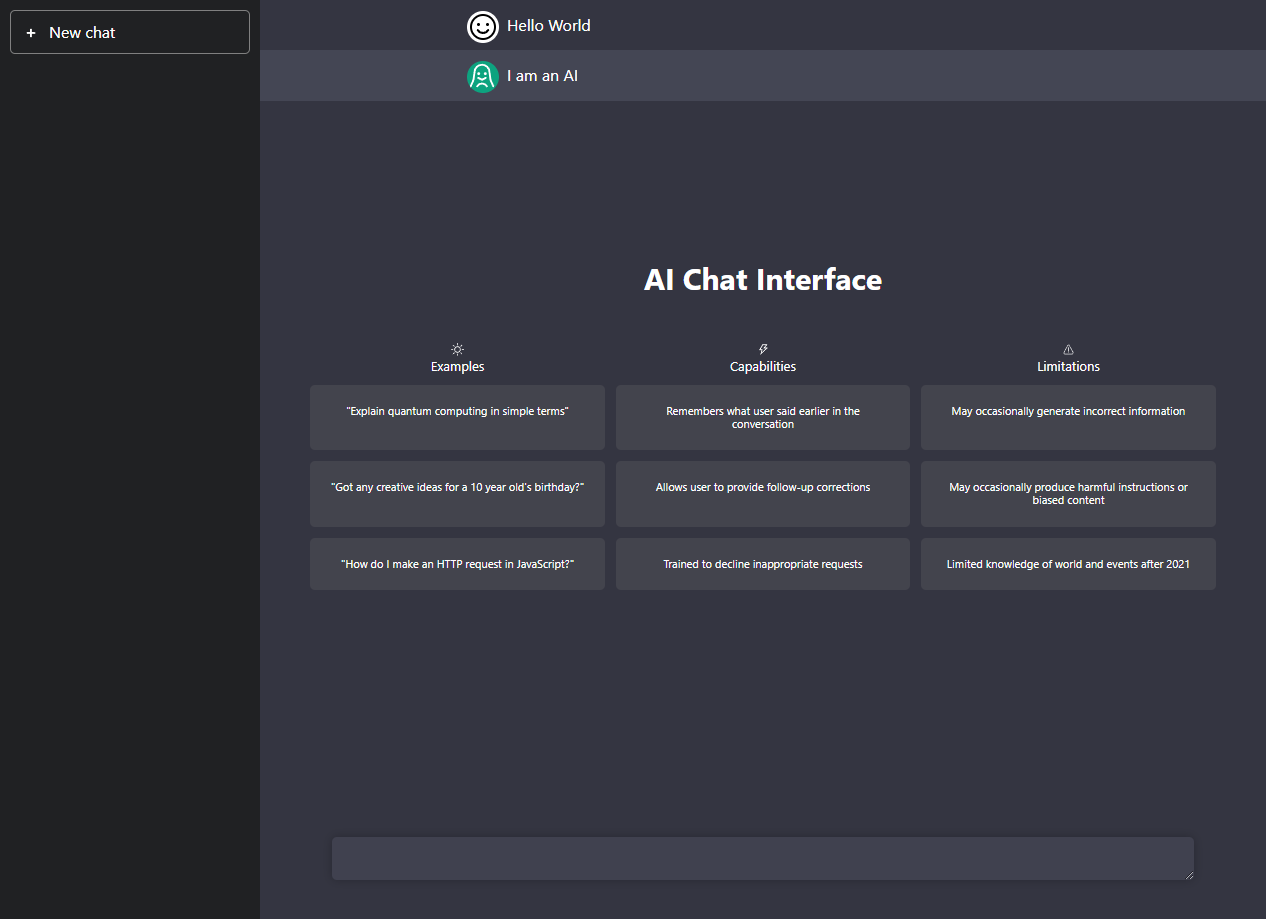
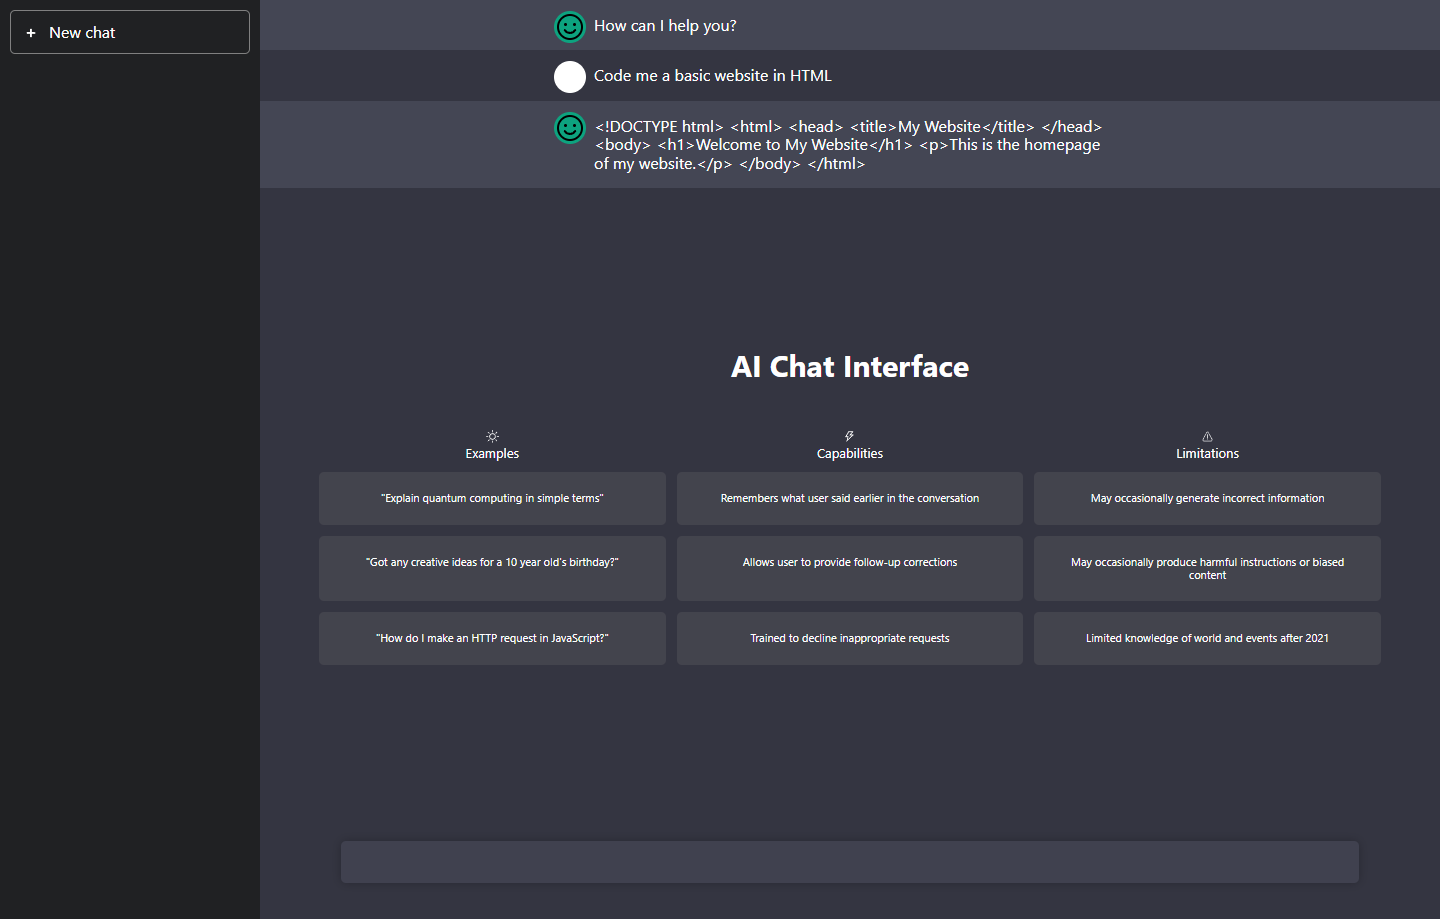
Update

diff --git a/client/src/App.js b/client/src/App.js
@@ -16,7 +16,7 @@ function App() {
     message: "How can I help you?"
   },{
     user: "me",
-    message: "What is the weather like in London?"
+    message: "Code me a basic website in HTML"
   }]);
 
   async function handleSubmit(e){
